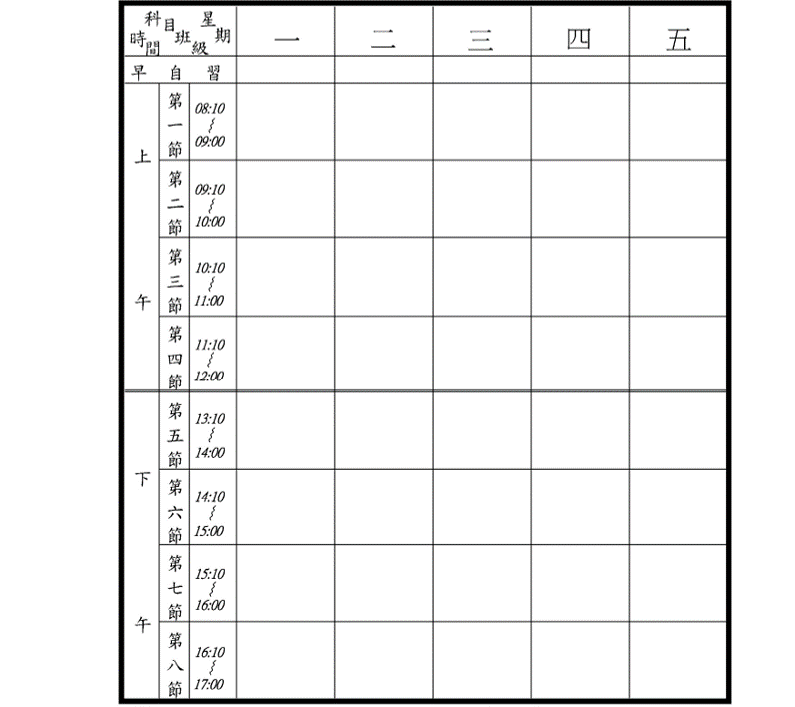
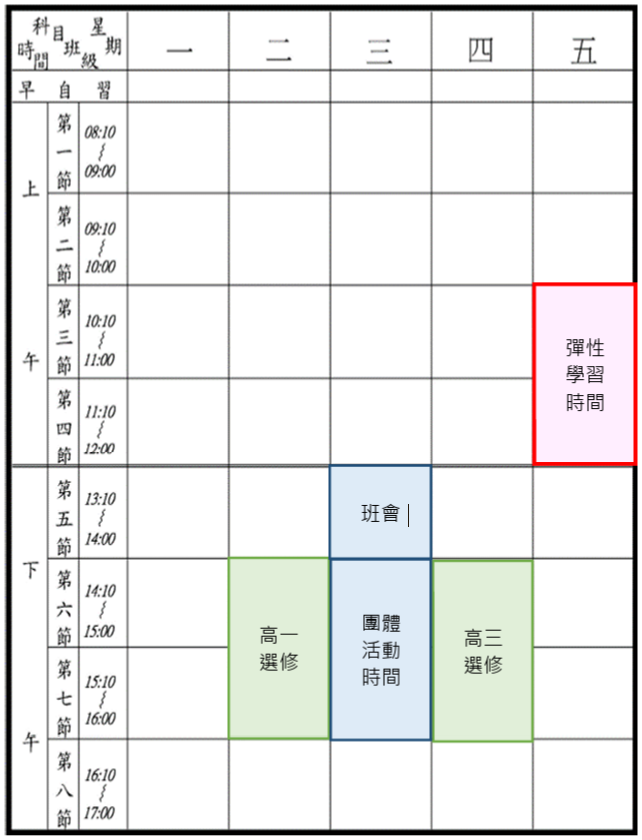
fix(ch3): replace blank image41.png with colored weekly schedule and remove duplicate

diff --git a/index.html b/index.html
@@ -943,11 +943,7 @@
   <img class="theme-sec-img" data-sec="sec-ch3" src="assets/sec-ch3-ocean.svg" alt="參、決定自己的課程－選組與選課" width="100%" />
 </div>
 
-<blockquote> <b>在花女三年中，有哪些是「可以自己決定」的課程與時間？</b>> 1. <b>選組與高二數學分流（高一下 5 月決定）</b>：選擇高二進入<b>班群 A（自然組）</b>或<b>班群 B（社會組）</b>，社會組同學還可選擇修習<b>數學 B</b>或<b>數學 A</b>。<br/>2. <b>多元選修課程（高一上下、高二下、高三上下）</b>：每學期從 24～30 門豐富課程中選填志願跨班修習。<br/>3. <b>加深加廣與補強性跑班選修（高二下、高三上下）</b>：依個人升學目標選修加深加廣或補強課程。<br/>4. <b>彈性學習時間（每週五第 3、4 節）</b>：規劃<b>自主學習主題</b>（畢業前至少滿 18 節）、參加微課程或選手培訓。<br/>5. <b>團體活動－社團時間（每週三第 6、7 節）</b>：從 34 個多元社團中選擇熱愛的領域投入！</blockquote>
-<div align="center" style="margin: 18px 0;">
-  <img src="assets/handbook-media/image34.jpeg?v=2" alt="國立花蓮女中一週課表（高一選修、高三選修、班會、團體活動時間與彈性學習時間配置）" width="58%" style="max-width:520px; border-radius:10px; box-shadow:0 2px 10px rgba(0,0,0,0.08);" />
-  <br/><sub>▲ 花女一週課表：可以自己決定的課程與時間（週二 6-7 節高一選修、週三 5 節班會與 6-7 節團體活動、週四 6-7 節高三選修、週五 3-4 節彈性學習時間）</sub>
-</div>
+<blockquote> <b>在花女三年中，有哪些是「可以自己決定」的課程與時間？</b><br/>1. <b>選組與高二數學分流（高一下 5 月決定）</b>：選擇高二進入<b>班群 A（自然組）</b>或<b>班群 B（社會組）</b>，社會組同學還可選擇修習<b>數學 B</b>或<b>數學 A</b>。<br/>2. <b>多元選修課程（高一上下、高二下、高三上下）</b>：每學期從 24～30 門豐富課程中選填志願跨班修習。<br/>3. <b>加深加廣與補強性跑班選修（高二下、高三上下）</b>：依個人升學目標選修加深加廣或補強課程。<br/>4. <b>彈性學習時間（每週五第 3、4 節）</b>：規劃<b>自主學習主題</b>（畢業前至少滿 18 節）、參加微課程或選手培訓。<br/>5. <b>團體活動－社團時間（每週三第 6、7 節）</b>：從 34 個多元社團中選擇熱愛的領域投入！</blockquote>
 
 <a id="ch3-1"></a>
 <h3>一、自然組／社會組之不同課程 ＆ 高二數學 A vs 數學 B 深度解析</h3>
@@ -986,7 +982,8 @@
 <h3>三、彈性學習時間（每週五第 3、4 節 ‧ 自主學習畢業前須滿 18 節！）</h3>
 
 <div align="center">
-  <img src="assets/handbook-media/image41.png" alt="彈性學習時間四大類別架構圖" width="72%" />
+  <img src="assets/handbook-media/image41.png?v=3" alt="國立花蓮女中一週課表（高一選修、高三選修、班會、團體活動時間與彈性學習時間配置）" width="56%" style="max-width:500px; border-radius:10px; box-shadow:0 2px 10px rgba(0,0,0,0.08);" />
+  <br/><sub>▲ 花女一週課表：每週五第 3、4 節為彈性學習時間，週二 6-7 節為高一選修，週三 5-7 節為班會與團體活動，週四 6-7 節為高三選修</sub>
 </div>
 
 <p>本校彈性學習時間安排於<b>每星期五第 3、4 節</b>（<b>115 入學高一為六個學期每週皆 2 節，三年共 12 節</b>；113、114 入學為高一下每週 1 節、其餘學期每週 2 節，三年共 11 節）。包含四大實施類別：</p>

diff --git a/README-1684.md b/README-1684.md
@@ -506,16 +506,13 @@
   <img src="assets/sec-ch3-atlas.svg" alt="參、決定自己的課程－選組與選課" width="100%" />
 </div>
 
->  **在花女三年中，有哪些是「可以自己決定」的課程與時間？**> 1. **選組與高二數學分流（高一下 5 月決定）**：選擇高二進入**班群 A（自然組）**或**班群 B（社會組）**，社會組同學還可選擇修習**數學 B**或**數學 A**。
+>  **在花女三年中，有哪些是「可以自己決定」的課程與時間？**
+> 1. **選組與高二數學分流（高一下 5 月決定）**：選擇高二進入**班群 A（自然組）**或**班群 B（社會組）**，社會組同學還可選擇修習**數學 B**或**數學 A**。
 > 2. **多元選修課程（高一上下、高二下、高三上下）**：每學期從 24～30 門豐富課程中選填志願跨班修習。
 > 3. **加深加廣與補強性跑班選修（高二下、高三上下）**：依個人升學目標選修加深加廣或補強課程。
 > 4. **彈性學習時間（每週五第 3、4 節）**：規劃**自主學習主題**（畢業前至少滿 18 節）、參加微課程或選手培訓。
 > 5. **團體活動－社團時間（每週三第 6、7 節）**：從 34 個多元社團中選擇熱愛的領域投入！
 
-<div align="center">
-  <img src="assets/handbook-media/image34.jpeg" alt="國立花蓮女中一週課表（高一選修、高三選修、班會、團體活動時間與彈性學習時間配置）" width="62%" />
-  <br/><sub>▲ 花女一週課表：可以自己決定的課程與時間（高一選修、高三選修、團體活動時間、彈性學習時間）</sub>
-</div>
 
 <a id="ch3-1"></a>
 ### 一、自然組／社會組之不同課程 ＆ 高二數學 A vs 數學 B 深度解析
@@ -588,7 +585,8 @@
 ### 三、彈性學習時間（每週五第 3、4 節 ‧ 自主學習畢業前須滿 18 節！）
 
 <div align="center">
-  <img src="assets/handbook-media/image41.png" alt="彈性學習時間四大類別架構圖" width="72%" />
+  <img src="assets/handbook-media/image41.png" alt="國立花蓮女中一週課表（高一選修、高三選修、班會、團體活動時間與彈性學習時間配置）" width="58%" />
+  <br/><sub>▲ 花女一週課表：每週五第 3、4 節為彈性學習時間，週二 6-7 節為高一選修，週三 5-7 節為班會與團體活動，週四 6-7 節為高三選修</sub>
 </div>
 
 本校彈性學習時間安排於**每星期五第 3、4 節**（**115 入學高一為六個學期每週皆 2 節，三年共 12 節**；113、114 入學為高一下每週 1 節、其餘學期每週 2 節，三年共 11 節）。包含四大實施類別：

diff --git a/README-atlas.md b/README-atlas.md
@@ -506,16 +506,13 @@
   <img src="assets/sec-ch3-atlas.svg" alt="參、決定自己的課程－選組與選課" width="100%" />
 </div>
 
->  **在花女三年中，有哪些是「可以自己決定」的課程與時間？**> 1. **選組與高二數學分流（高一下 5 月決定）**：選擇高二進入**班群 A（自然組）**或**班群 B（社會組）**，社會組同學還可選擇修習**數學 B**或**數學 A**。
+>  **在花女三年中，有哪些是「可以自己決定」的課程與時間？**
+> 1. **選組與高二數學分流（高一下 5 月決定）**：選擇高二進入**班群 A（自然組）**或**班群 B（社會組）**，社會組同學還可選擇修習**數學 B**或**數學 A**。
 > 2. **多元選修課程（高一上下、高二下、高三上下）**：每學期從 24～30 門豐富課程中選填志願跨班修習。
 > 3. **加深加廣與補強性跑班選修（高二下、高三上下）**：依個人升學目標選修加深加廣或補強課程。
 > 4. **彈性學習時間（每週五第 3、4 節）**：規劃**自主學習主題**（畢業前至少滿 18 節）、參加微課程或選手培訓。
 > 5. **團體活動－社團時間（每週三第 6、7 節）**：從 34 個多元社團中選擇熱愛的領域投入！
 
-<div align="center">
-  <img src="assets/handbook-media/image34.jpeg" alt="國立花蓮女中一週課表（高一選修、高三選修、班會、團體活動時間與彈性學習時間配置）" width="62%" />
-  <br/><sub>▲ 花女一週課表：可以自己決定的課程與時間（高一選修、高三選修、團體活動時間、彈性學習時間）</sub>
-</div>
 
 <a id="ch3-1"></a>
 ### 一、自然組／社會組之不同課程 ＆ 高二數學 A vs 數學 B 深度解析
@@ -588,7 +585,8 @@
 ### 三、彈性學習時間（每週五第 3、4 節 ‧ 自主學習畢業前須滿 18 節！）
 
 <div align="center">
-  <img src="assets/handbook-media/image41.png" alt="彈性學習時間四大類別架構圖" width="72%" />
+  <img src="assets/handbook-media/image41.png" alt="國立花蓮女中一週課表（高一選修、高三選修、班會、團體活動時間與彈性學習時間配置）" width="58%" />
+  <br/><sub>▲ 花女一週課表：每週五第 3、4 節為彈性學習時間，週二 6-7 節為高一選修，週三 5-7 節為班會與團體活動，週四 6-7 節為高三選修</sub>
 </div>
 
 本校彈性學習時間安排於**每星期五第 3、4 節**（**115 入學高一為六個學期每週皆 2 節，三年共 12 節**；113、114 入學為高一下每週 1 節、其餘學期每週 2 節，三年共 11 節）。包含四大實施類別：

diff --git a/README-denim.md b/README-denim.md
@@ -510,16 +510,13 @@
   <img src="assets/sec-ch3-denim.svg" alt="參、決定自己的課程－選組與選課" width="100%" />
 </div>
 
->  **在花女三年中，有哪些是「可以自己決定」的課程與時間？**> 1. **選組與高二數學分流（高一下 5 月決定）**：選擇高二進入**班群 A（自然組）**或**班群 B（社會組）**，社會組同學還可選擇修習**數學 B**或**數學 A**。
+>  **在花女三年中，有哪些是「可以自己決定」的課程與時間？**
+> 1. **選組與高二數學分流（高一下 5 月決定）**：選擇高二進入**班群 A（自然組）**或**班群 B（社會組）**，社會組同學還可選擇修習**數學 B**或**數學 A**。
 > 2. **多元選修課程（高一上下、高二下、高三上下）**：每學期從 24～30 門豐富課程中選填志願跨班修習。
 > 3. **加深加廣與補強性跑班選修（高二下、高三上下）**：依個人升學目標選修加深加廣或補強課程。
 > 4. **彈性學習時間（每週五第 3、4 節）**：規劃**自主學習主題**（畢業前至少滿 18 節）、參加微課程或選手培訓。
 > 5. **團體活動－社團時間（每週三第 6、7 節）**：從 34 個多元社團中選擇熱愛的領域投入！
 
-<div align="center">
-  <img src="assets/handbook-media/image34.jpeg" alt="國立花蓮女中一週課表（高一選修、高三選修、班會、團體活動時間與彈性學習時間配置）" width="62%" />
-  <br/><sub>▲ 花女一週課表：可以自己決定的課程與時間（高一選修、高三選修、團體活動時間、彈性學習時間）</sub>
-</div>
 
 <a id="ch3-1"></a>
 ### 一、自然組／社會組之不同課程 ＆ 高二數學 A vs 數學 B 深度解析
@@ -592,7 +589,8 @@
 ### 三、彈性學習時間（每週五第 3、4 節 ‧ 自主學習畢業前須滿 18 節！）
 
 <div align="center">
-  <img src="assets/handbook-media/image41.png" alt="彈性學習時間四大類別架構圖" width="72%" />
+  <img src="assets/handbook-media/image41.png" alt="國立花蓮女中一週課表（高一選修、高三選修、班會、團體活動時間與彈性學習時間配置）" width="58%" />
+  <br/><sub>▲ 花女一週課表：每週五第 3、4 節為彈性學習時間，週二 6-7 節為高一選修，週三 5-7 節為班會與團體活動，週四 6-7 節為高三選修</sub>
 </div>
 
 本校彈性學習時間安排於**每星期五第 3、4 節**（**115 入學高一為六個學期每週皆 2 節，三年共 12 節**；113、114 入學為高一下每週 1 節、其餘學期每週 2 節，三年共 11 節）。包含四大實施類別：

diff --git a/README-lavender.md b/README-lavender.md
@@ -510,16 +510,13 @@
   <img src="assets/sec-ch3-denim.svg" alt="參、決定自己的課程－選組與選課" width="100%" />
 </div>
 
->  **在花女三年中，有哪些是「可以自己決定」的課程與時間？**> 1. **選組與高二數學分流（高一下 5 月決定）**：選擇高二進入**班群 A（自然組）**或**班群 B（社會組）**，社會組同學還可選擇修習**數學 B**或**數學 A**。
+>  **在花女三年中，有哪些是「可以自己決定」的課程與時間？**
+> 1. **選組與高二數學分流（高一下 5 月決定）**：選擇高二進入**班群 A（自然組）**或**班群 B（社會組）**，社會組同學還可選擇修習**數學 B**或**數學 A**。
 > 2. **多元選修課程（高一上下、高二下、高三上下）**：每學期從 24～30 門豐富課程中選填志願跨班修習。
 > 3. **加深加廣與補強性跑班選修（高二下、高三上下）**：依個人升學目標選修加深加廣或補強課程。
 > 4. **彈性學習時間（每週五第 3、4 節）**：規劃**自主學習主題**（畢業前至少滿 18 節）、參加微課程或選手培訓。
 > 5. **團體活動－社團時間（每週三第 6、7 節）**：從 34 個多元社團中選擇熱愛的領域投入！
 
-<div align="center">
-  <img src="assets/handbook-media/image34.jpeg" alt="國立花蓮女中一週課表（高一選修、高三選修、班會、團體活動時間與彈性學習時間配置）" width="62%" />
-  <br/><sub>▲ 花女一週課表：可以自己決定的課程與時間（高一選修、高三選修、團體活動時間、彈性學習時間）</sub>
-</div>
 
 <a id="ch3-1"></a>
 ### 一、自然組／社會組之不同課程 ＆ 高二數學 A vs 數學 B 深度解析
@@ -592,7 +589,8 @@
 ### 三、彈性學習時間（每週五第 3、4 節 ‧ 自主學習畢業前須滿 18 節！）
 
 <div align="center">
-  <img src="assets/handbook-media/image41.png" alt="彈性學習時間四大類別架構圖" width="72%" />
+  <img src="assets/handbook-media/image41.png" alt="國立花蓮女中一週課表（高一選修、高三選修、班會、團體活動時間與彈性學習時間配置）" width="58%" />
+  <br/><sub>▲ 花女一週課表：每週五第 3、4 節為彈性學習時間，週二 6-7 節為高一選修，週三 5-7 節為班會與團體活動，週四 6-7 節為高三選修</sub>
 </div>
 
 本校彈性學習時間安排於**每星期五第 3、4 節**（**115 入學高一為六個學期每週皆 2 節，三年共 12 節**；113、114 入學為高一下每週 1 節、其餘學期每週 2 節，三年共 11 節）。包含四大實施類別：

diff --git a/README-mint.md b/README-mint.md
@@ -510,16 +510,13 @@
   <img src="assets/sec-ch3-ocean.svg" alt="參、決定自己的課程－選組與選課" width="100%" />
 </div>
 
->  **在花女三年中，有哪些是「可以自己決定」的課程與時間？**> 1. **選組與高二數學分流（高一下 5 月決定）**：選擇高二進入**班群 A（自然組）**或**班群 B（社會組）**，社會組同學還可選擇修習**數學 B**或**數學 A**。
+>  **在花女三年中，有哪些是「可以自己決定」的課程與時間？**
+> 1. **選組與高二數學分流（高一下 5 月決定）**：選擇高二進入**班群 A（自然組）**或**班群 B（社會組）**，社會組同學還可選擇修習**數學 B**或**數學 A**。
 > 2. **多元選修課程（高一上下、高二下、高三上下）**：每學期從 24～30 門豐富課程中選填志願跨班修習。
 > 3. **加深加廣與補強性跑班選修（高二下、高三上下）**：依個人升學目標選修加深加廣或補強課程。
 > 4. **彈性學習時間（每週五第 3、4 節）**：規劃**自主學習主題**（畢業前至少滿 18 節）、參加微課程或選手培訓。
 > 5. **團體活動－社團時間（每週三第 6、7 節）**：從 34 個多元社團中選擇熱愛的領域投入！
 
-<div align="center">
-  <img src="assets/handbook-media/image34.jpeg" alt="國立花蓮女中一週課表（高一選修、高三選修、班會、團體活動時間與彈性學習時間配置）" width="62%" />
-  <br/><sub>▲ 花女一週課表：可以自己決定的課程與時間（高一選修、高三選修、團體活動時間、彈性學習時間）</sub>
-</div>
 
 <a id="ch3-1"></a>
 ### 一、自然組／社會組之不同課程 ＆ 高二數學 A vs 數學 B 深度解析
@@ -592,7 +589,8 @@
 ### 三、彈性學習時間（每週五第 3、4 節 ‧ 自主學習畢業前須滿 18 節！）
 
 <div align="center">
-  <img src="assets/handbook-media/image41.png" alt="彈性學習時間四大類別架構圖" width="72%" />
+  <img src="assets/handbook-media/image41.png" alt="國立花蓮女中一週課表（高一選修、高三選修、班會、團體活動時間與彈性學習時間配置）" width="58%" />
+  <br/><sub>▲ 花女一週課表：每週五第 3、4 節為彈性學習時間，週二 6-7 節為高一選修，週三 5-7 節為班會與團體活動，週四 6-7 節為高三選修</sub>
 </div>
 
 本校彈性學習時間安排於**每星期五第 3、4 節**（**115 入學高一為六個學期每週皆 2 節，三年共 12 節**；113、114 入學為高一下每週 1 節、其餘學期每週 2 節，三年共 11 節）。包含四大實施類別：

diff --git a/README-ocean.md b/README-ocean.md
@@ -510,16 +510,13 @@
   <img src="assets/sec-ch3-ocean.svg" alt="參、決定自己的課程－選組與選課" width="100%" />
 </div>
 
->  **在花女三年中，有哪些是「可以自己決定」的課程與時間？**> 1. **選組與高二數學分流（高一下 5 月決定）**：選擇高二進入**班群 A（自然組）**或**班群 B（社會組）**，社會組同學還可選擇修習**數學 B**或**數學 A**。
+>  **在花女三年中，有哪些是「可以自己決定」的課程與時間？**
+> 1. **選組與高二數學分流（高一下 5 月決定）**：選擇高二進入**班群 A（自然組）**或**班群 B（社會組）**，社會組同學還可選擇修習**數學 B**或**數學 A**。
 > 2. **多元選修課程（高一上下、高二下、高三上下）**：每學期從 24～30 門豐富課程中選填志願跨班修習。
 > 3. **加深加廣與補強性跑班選修（高二下、高三上下）**：依個人升學目標選修加深加廣或補強課程。
 > 4. **彈性學習時間（每週五第 3、4 節）**：規劃**自主學習主題**（畢業前至少滿 18 節）、參加微課程或選手培訓。
 > 5. **團體活動－社團時間（每週三第 6、7 節）**：從 34 個多元社團中選擇熱愛的領域投入！
 
-<div align="center">
-  <img src="assets/handbook-media/image34.jpeg" alt="國立花蓮女中一週課表（高一選修、高三選修、班會、團體活動時間與彈性學習時間配置）" width="62%" />
-  <br/><sub>▲ 花女一週課表：可以自己決定的課程與時間（高一選修、高三選修、團體活動時間、彈性學習時間）</sub>
-</div>
 
 <a id="ch3-1"></a>
 ### 一、自然組／社會組之不同課程 ＆ 高二數學 A vs 數學 B 深度解析
@@ -592,7 +589,8 @@
 ### 三、彈性學習時間（每週五第 3、4 節 ‧ 自主學習畢業前須滿 18 節！）
 
 <div align="center">
-  <img src="assets/handbook-media/image41.png" alt="彈性學習時間四大類別架構圖" width="72%" />
+  <img src="assets/handbook-media/image41.png" alt="國立花蓮女中一週課表（高一選修、高三選修、班會、團體活動時間與彈性學習時間配置）" width="58%" />
+  <br/><sub>▲ 花女一週課表：每週五第 3、4 節為彈性學習時間，週二 6-7 節為高一選修，週三 5-7 節為班會與團體活動，週四 6-7 節為高三選修</sub>
 </div>
 
 本校彈性學習時間安排於**每星期五第 3、4 節**（**115 入學高一為六個學期每週皆 2 節，三年共 12 節**；113、114 入學為高一下每週 1 節、其餘學期每週 2 節，三年共 11 節）。包含四大實施類別：

diff --git a/README-sakura.md b/README-sakura.md
@@ -510,16 +510,13 @@
   <img src="assets/sec-ch3-ocean.svg" alt="參、決定自己的課程－選組與選課" width="100%" />
 </div>
 
->  **在花女三年中，有哪些是「可以自己決定」的課程與時間？**> 1. **選組與高二數學分流（高一下 5 月決定）**：選擇高二進入**班群 A（自然組）**或**班群 B（社會組）**，社會組同學還可選擇修習**數學 B**或**數學 A**。
+>  **在花女三年中，有哪些是「可以自己決定」的課程與時間？**
+> 1. **選組與高二數學分流（高一下 5 月決定）**：選擇高二進入**班群 A（自然組）**或**班群 B（社會組）**，社會組同學還可選擇修習**數學 B**或**數學 A**。
 > 2. **多元選修課程（高一上下、高二下、高三上下）**：每學期從 24～30 門豐富課程中選填志願跨班修習。
 > 3. **加深加廣與補強性跑班選修（高二下、高三上下）**：依個人升學目標選修加深加廣或補強課程。
 > 4. **彈性學習時間（每週五第 3、4 節）**：規劃**自主學習主題**（畢業前至少滿 18 節）、參加微課程或選手培訓。
 > 5. **團體活動－社團時間（每週三第 6、7 節）**：從 34 個多元社團中選擇熱愛的領域投入！
 
-<div align="center">
-  <img src="assets/handbook-media/image34.jpeg" alt="國立花蓮女中一週課表（高一選修、高三選修、班會、團體活動時間與彈性學習時間配置）" width="62%" />
-  <br/><sub>▲ 花女一週課表：可以自己決定的課程與時間（高一選修、高三選修、團體活動時間、彈性學習時間）</sub>
-</div>
 
 <a id="ch3-1"></a>
 ### 一、自然組／社會組之不同課程 ＆ 高二數學 A vs 數學 B 深度解析
@@ -592,7 +589,8 @@
 ### 三、彈性學習時間（每週五第 3、4 節 ‧ 自主學習畢業前須滿 18 節！）
 
 <div align="center">
-  <img src="assets/handbook-media/image41.png" alt="彈性學習時間四大類別架構圖" width="72%" />
+  <img src="assets/handbook-media/image41.png" alt="國立花蓮女中一週課表（高一選修、高三選修、班會、團體活動時間與彈性學習時間配置）" width="58%" />
+  <br/><sub>▲ 花女一週課表：每週五第 3、4 節為彈性學習時間，週二 6-7 節為高一選修，週三 5-7 節為班會與團體活動，週四 6-7 節為高三選修</sub>
 </div>
 
 本校彈性學習時間安排於**每星期五第 3、4 節**（**115 入學高一為六個學期每週皆 2 節，三年共 12 節**；113、114 入學為高一下每週 1 節、其餘學期每週 2 節，三年共 11 節）。包含四大實施類別：

diff --git a/README.md b/README.md
@@ -510,16 +510,13 @@
   <img src="assets/sec-ch3-ocean.svg" alt="參、決定自己的課程－選組與選課" width="100%" />
 </div>
 
->  **在花女三年中，有哪些是「可以自己決定」的課程與時間？**> 1. **選組與高二數學分流（高一下 5 月決定）**：選擇高二進入**班群 A（自然組）**或**班群 B（社會組）**，社會組同學還可選擇修習**數學 B**或**數學 A**。
+>  **在花女三年中，有哪些是「可以自己決定」的課程與時間？**
+> 1. **選組與高二數學分流（高一下 5 月決定）**：選擇高二進入**班群 A（自然組）**或**班群 B（社會組）**，社會組同學還可選擇修習**數學 B**或**數學 A**。
 > 2. **多元選修課程（高一上下、高二下、高三上下）**：每學期從 24～30 門豐富課程中選填志願跨班修習。
 > 3. **加深加廣與補強性跑班選修（高二下、高三上下）**：依個人升學目標選修加深加廣或補強課程。
 > 4. **彈性學習時間（每週五第 3、4 節）**：規劃**自主學習主題**（畢業前至少滿 18 節）、參加微課程或選手培訓。
 > 5. **團體活動－社團時間（每週三第 6、7 節）**：從 34 個多元社團中選擇熱愛的領域投入！
 
-<div align="center">
-  <img src="assets/handbook-media/image34.jpeg" alt="國立花蓮女中一週課表（高一選修、高三選修、班會、團體活動時間與彈性學習時間配置）" width="62%" />
-  <br/><sub>▲ 花女一週課表：可以自己決定的課程與時間（高一選修、高三選修、團體活動時間、彈性學習時間）</sub>
-</div>
 
 <a id="ch3-1"></a>
 ### 一、自然組／社會組之不同課程 ＆ 高二數學 A vs 數學 B 深度解析
@@ -592,7 +589,8 @@
 ### 三、彈性學習時間（每週五第 3、4 節 ‧ 自主學習畢業前須滿 18 節！）
 
 <div align="center">
-  <img src="assets/handbook-media/image41.png" alt="彈性學習時間四大類別架構圖" width="72%" />
+  <img src="assets/handbook-media/image41.png" alt="國立花蓮女中一週課表（高一選修、高三選修、班會、團體活動時間與彈性學習時間配置）" width="58%" />
+  <br/><sub>▲ 花女一週課表：每週五第 3、4 節為彈性學習時間，週二 6-7 節為高一選修，週三 5-7 節為班會與團體活動，週四 6-7 節為高三選修</sub>
 </div>
 
 本校彈性學習時間安排於**每星期五第 3、4 節**（**115 入學高一為六個學期每週皆 2 節，三年共 12 節**；113、114 入學為高一下每週 1 節、其餘學期每週 2 節，三年共 11 節）。包含四大實施類別：

diff --git a/README-berry.md b/README-berry.md
@@ -510,16 +510,13 @@
   <img src="assets/sec-ch3-zine.svg" alt="參、決定自己的課程－選組與選課" width="100%" />
 </div>
 
->  **在花女三年中，有哪些是「可以自己決定」的課程與時間？**> 1. **選組與高二數學分流（高一下 5 月決定）**：選擇高二進入**班群 A（自然組）**或**班群 B（社會組）**，社會組同學還可選擇修習**數學 B**或**數學 A**。
+>  **在花女三年中，有哪些是「可以自己決定」的課程與時間？**
+> 1. **選組與高二數學分流（高一下 5 月決定）**：選擇高二進入**班群 A（自然組）**或**班群 B（社會組）**，社會組同學還可選擇修習**數學 B**或**數學 A**。
 > 2. **多元選修課程（高一上下、高二下、高三上下）**：每學期從 24～30 門豐富課程中選填志願跨班修習。
 > 3. **加深加廣與補強性跑班選修（高二下、高三上下）**：依個人升學目標選修加深加廣或補強課程。
 > 4. **彈性學習時間（每週五第 3、4 節）**：規劃**自主學習主題**（畢業前至少滿 18 節）、參加微課程或選手培訓。
 > 5. **團體活動－社團時間（每週三第 6、7 節）**：從 34 個多元社團中選擇熱愛的領域投入！
 
-<div align="center">
-  <img src="assets/handbook-media/image34.jpeg" alt="國立花蓮女中一週課表（高一選修、高三選修、班會、團體活動時間與彈性學習時間配置）" width="62%" />
-  <br/><sub>▲ 花女一週課表：可以自己決定的課程與時間（高一選修、高三選修、團體活動時間、彈性學習時間）</sub>
-</div>
 
 <a id="ch3-1"></a>
 ### 一、自然組／社會組之不同課程 ＆ 高二數學 A vs 數學 B 深度解析
@@ -592,7 +589,8 @@
 ### 三、彈性學習時間（每週五第 3、4 節 ‧ 自主學習畢業前須滿 18 節！）
 
 <div align="center">
-  <img src="assets/handbook-media/image41.png" alt="彈性學習時間四大類別架構圖" width="72%" />
+  <img src="assets/handbook-media/image41.png" alt="國立花蓮女中一週課表（高一選修、高三選修、班會、團體活動時間與彈性學習時間配置）" width="58%" />
+  <br/><sub>▲ 花女一週課表：每週五第 3、4 節為彈性學習時間，週二 6-7 節為高一選修，週三 5-7 節為班會與團體活動，週四 6-7 節為高三選修</sub>
 </div>
 
 本校彈性學習時間安排於**每星期五第 3、4 節**（**115 入學高一為六個學期每週皆 2 節，三年共 12 節**；113、114 入學為高一下每週 1 節、其餘學期每週 2 節，三年共 11 節）。包含四大實施類別：

diff --git a/README-matcha.md b/README-matcha.md
@@ -510,16 +510,13 @@
   <img src="assets/sec-ch3-pine.svg" alt="參、決定自己的課程－選組與選課" width="100%" />
 </div>
 
->  **在花女三年中，有哪些是「可以自己決定」的課程與時間？**> 1. **選組與高二數學分流（高一下 5 月決定）**：選擇高二進入**班群 A（自然組）**或**班群 B（社會組）**，社會組同學還可選擇修習**數學 B**或**數學 A**。
+>  **在花女三年中，有哪些是「可以自己決定」的課程與時間？**
+> 1. **選組與高二數學分流（高一下 5 月決定）**：選擇高二進入**班群 A（自然組）**或**班群 B（社會組）**，社會組同學還可選擇修習**數學 B**或**數學 A**。
 > 2. **多元選修課程（高一上下、高二下、高三上下）**：每學期從 24～30 門豐富課程中選填志願跨班修習。
 > 3. **加深加廣與補強性跑班選修（高二下、高三上下）**：依個人升學目標選修加深加廣或補強課程。
 > 4. **彈性學習時間（每週五第 3、4 節）**：規劃**自主學習主題**（畢業前至少滿 18 節）、參加微課程或選手培訓。
 > 5. **團體活動－社團時間（每週三第 6、7 節）**：從 34 個多元社團中選擇熱愛的領域投入！
 
-<div align="center">
-  <img src="assets/handbook-media/image34.jpeg" alt="國立花蓮女中一週課表（高一選修、高三選修、班會、團體活動時間與彈性學習時間配置）" width="62%" />
-  <br/><sub>▲ 花女一週課表：可以自己決定的課程與時間（高一選修、高三選修、團體活動時間、彈性學習時間）</sub>
-</div>
 
 <a id="ch3-1"></a>
 ### 一、自然組／社會組之不同課程 ＆ 高二數學 A vs 數學 B 深度解析
@@ -592,7 +589,8 @@
 ### 三、彈性學習時間（每週五第 3、4 節 ‧ 自主學習畢業前須滿 18 節！）
 
 <div align="center">
-  <img src="assets/handbook-media/image41.png" alt="彈性學習時間四大類別架構圖" width="72%" />
+  <img src="assets/handbook-media/image41.png" alt="國立花蓮女中一週課表（高一選修、高三選修、班會、團體活動時間與彈性學習時間配置）" width="58%" />
+  <br/><sub>▲ 花女一週課表：每週五第 3、4 節為彈性學習時間，週二 6-7 節為高一選修，週三 5-7 節為班會與團體活動，週四 6-7 節為高三選修</sub>
 </div>
 
 本校彈性學習時間安排於**每星期五第 3、4 節**（**115 入學高一為六個學期每週皆 2 節，三年共 12 節**；113、114 入學為高一下每週 1 節、其餘學期每週 2 節，三年共 11 節）。包含四大實施類別：

diff --git a/README-mono.md b/README-mono.md
@@ -510,16 +510,13 @@
   <img src="assets/sec-ch3-mono.svg" alt="參、決定自己的課程－選組與選課" width="100%" />
 </div>
 
->  **在花女三年中，有哪些是「可以自己決定」的課程與時間？**> 1. **選組與高二數學分流（高一下 5 月決定）**：選擇高二進入**班群 A（自然組）**或**班群 B（社會組）**，社會組同學還可選擇修習**數學 B**或**數學 A**。
+>  **在花女三年中，有哪些是「可以自己決定」的課程與時間？**
+> 1. **選組與高二數學分流（高一下 5 月決定）**：選擇高二進入**班群 A（自然組）**或**班群 B（社會組）**，社會組同學還可選擇修習**數學 B**或**數學 A**。
 > 2. **多元選修課程（高一上下、高二下、高三上下）**：每學期從 24～30 門豐富課程中選填志願跨班修習。
 > 3. **加深加廣與補強性跑班選修（高二下、高三上下）**：依個人升學目標選修加深加廣或補強課程。
 > 4. **彈性學習時間（每週五第 3、4 節）**：規劃**自主學習主題**（畢業前至少滿 18 節）、參加微課程或選手培訓。
 > 5. **團體活動－社團時間（每週三第 6、7 節）**：從 34 個多元社團中選擇熱愛的領域投入！
 
-<div align="center">
-  <img src="assets/handbook-media/image34.jpeg" alt="國立花蓮女中一週課表（高一選修、高三選修、班會、團體活動時間與彈性學習時間配置）" width="62%" />
-  <br/><sub>▲ 花女一週課表：可以自己決定的課程與時間（高一選修、高三選修、團體活動時間、彈性學習時間）</sub>
-</div>
 
 <a id="ch3-1"></a>
 ### 一、自然組／社會組之不同課程 ＆ 高二數學 A vs 數學 B 深度解析
@@ -592,7 +589,8 @@
 ### 三、彈性學習時間（每週五第 3、4 節 ‧ 自主學習畢業前須滿 18 節！）
 
 <div align="center">
-  <img src="assets/handbook-media/image41.png" alt="彈性學習時間四大類別架構圖" width="72%" />
+  <img src="assets/handbook-media/image41.png" alt="國立花蓮女中一週課表（高一選修、高三選修、班會、團體活動時間與彈性學習時間配置）" width="58%" />
+  <br/><sub>▲ 花女一週課表：每週五第 3、4 節為彈性學習時間，週二 6-7 節為高一選修，週三 5-7 節為班會與團體活動，週四 6-7 節為高三選修</sub>
 </div>
 
 本校彈性學習時間安排於**每星期五第 3、4 節**（**115 入學高一為六個學期每週皆 2 節，三年共 12 節**；113、114 入學為高一下每週 1 節、其餘學期每週 2 節，三年共 11 節）。包含四大實施類別：
